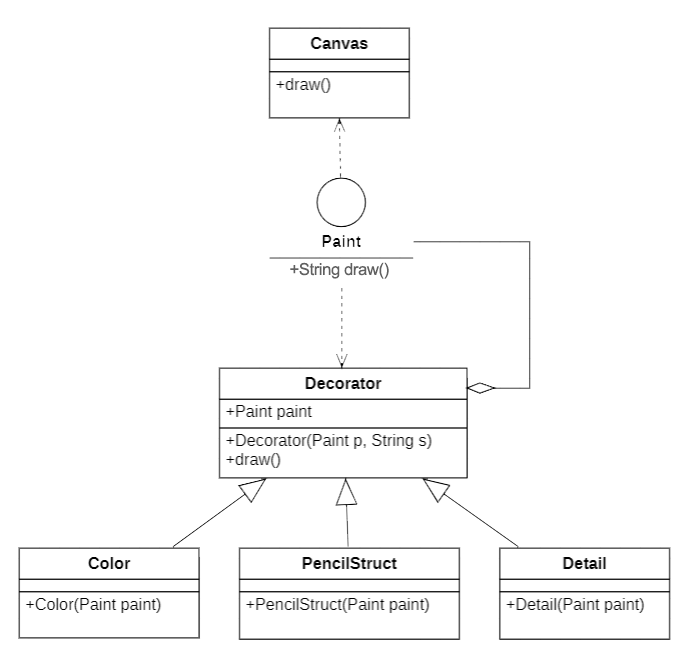
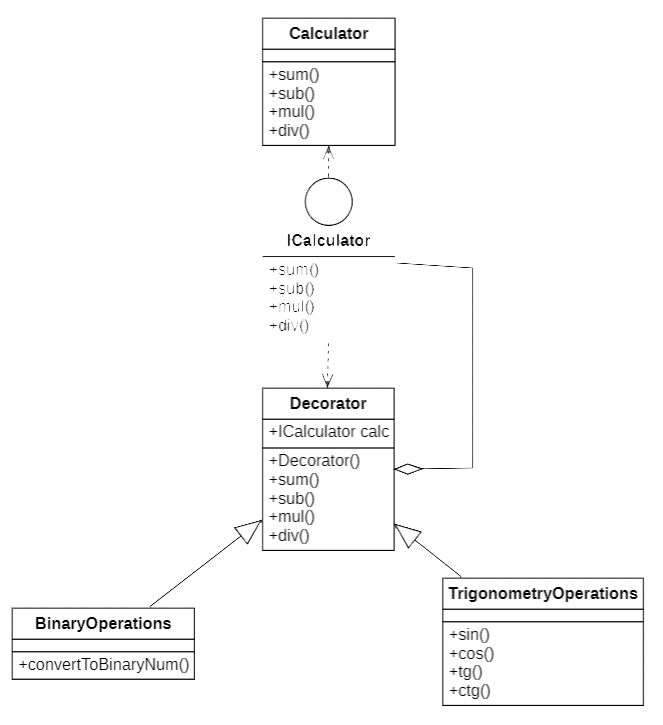
changed idea

diff --git a/src/Decorator.java b/src/Decorator.java
@@ -1,14 +1,27 @@
-public class Decorator implements Paint {
-    private Paint paint;
-    private String action;
+public class Decorator implements ICalculator {
+    private ICalculator calculator;
 
-    public Decorator(Paint paint, String action) {
-        this.paint = paint;
-        this.action = action;
+    public Decorator(ICalculator calculator) {
+        this.calculator = calculator;
     }
 
     @Override
-    public String draw() {
-        return paint.draw() + "\n" + this.action;
+    public int sum(int a, int b) {
+        return calculator.sum(a, b);
+    }
+
+    @Override
+    public int sub(int a, int b) {
+        return calculator.sub(a, b);
+    }
+
+    @Override
+    public int mul(int a, int b) {
+        return calculator.mul(a, b);
+    }
+
+    @Override
+    public int div(int a, int b) {
+        return calculator.div(a, b);
     }
 }

diff --git a/src/Main.java b/src/Main.java
@@ -1,12 +1,8 @@
-
 public class Main {
     public static void main(String[] args) {
-        Paint pic = new Canvas();
+        Сalculator simpleCalculator = new Сalculator();
 
-        Paint pencilStruct = new PencilStruct(pic);
-        Paint color = new Color(pencilStruct);
-        Paint detail = new Detail(color);
-
-        System.out.println(detail.draw());
+        BinaryOperations binCalculator = new BinaryOperations(simpleCalculator);
+        TrigonometryOperations trigCalculator = new TrigonometryOperations(simpleCalculator);
     }
 }

diff --git a/src/TrigonometryOperations.java b/src/TrigonometryOperations.java
@@ -1,0 +1,21 @@
+public class TrigonometryOperations extends Decorator {
+    public TrigonometryOperations(ICalculator calculator) {
+        super(calculator);
+    }
+
+    public double sin(int degree) {
+        return Math.sin(degree);
+    }
+
+    public double cos(int degree) {
+        return Math.cos(degree);
+    }
+
+    public double tg(int degree) {
+        return Math.tan(degree);
+    }
+
+    public double ctg(int degree) {
+        return 1 / Math.tan(degree);
+    }
+}

diff --git a/src/Сalculator.java b/src/Сalculator.java
@@ -1,0 +1,22 @@
+public class Сalculator implements ICalculator {
+
+    @Override
+    public int sum(int a, int b) {
+        return a + b;
+    }
+
+    @Override
+    public int sub(int a, int b) {
+        return a - b;
+    }
+
+    @Override
+    public int mul(int a, int b) {
+        return a * b;
+    }
+
+    @Override
+    public int div(int a, int b) {
+        return a / b;
+    }
+}

diff --git a/src/BinaryOperations.java b/src/BinaryOperations.java
@@ -1,0 +1,9 @@
+public class BinaryOperations extends Decorator {
+    public BinaryOperations(ICalculator calculator) {
+        super(calculator);
+    }
+
+    public String convertToBinaryNum(int num){
+        return Integer.toBinaryString(num);
+    }
+}

diff --git a/src/ICalculator.java b/src/ICalculator.java
@@ -1,0 +1,9 @@
+public interface ICalculator {
+    int sum(int a, int b);
+
+    int sub(int a, int b);
+
+    int mul(int a, int b);
+
+    int div(int a, int b);
+}
